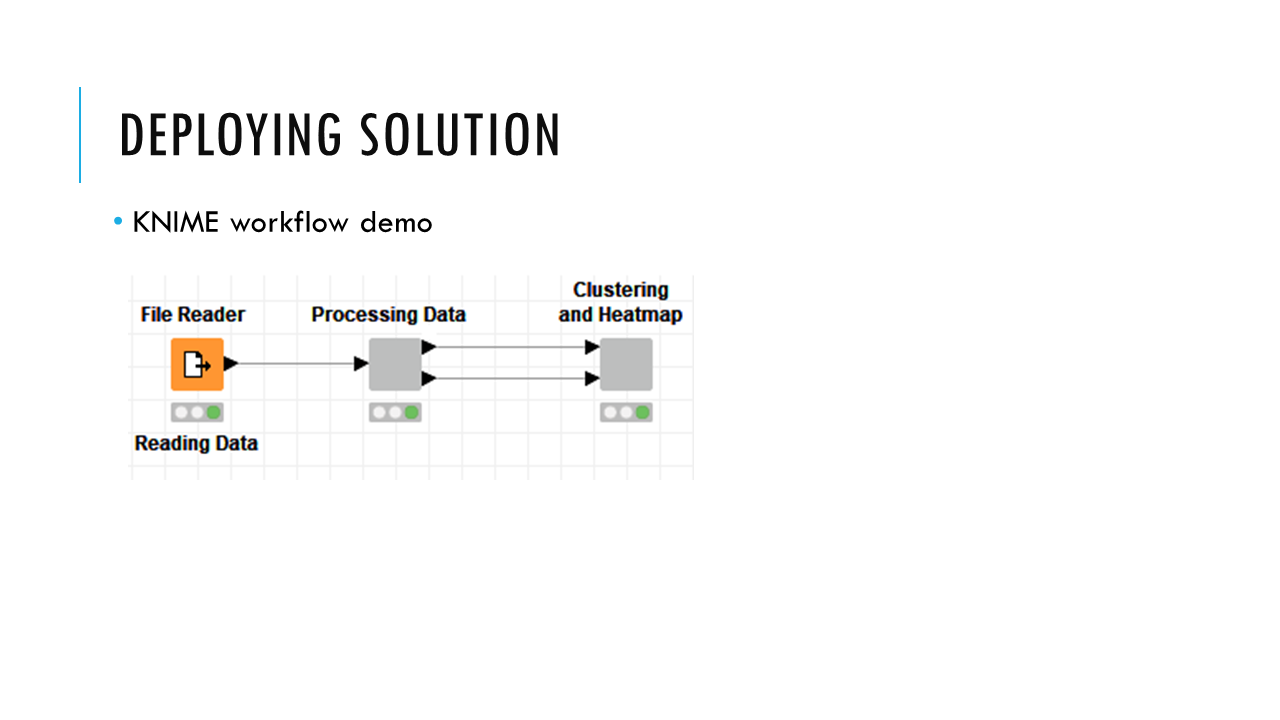
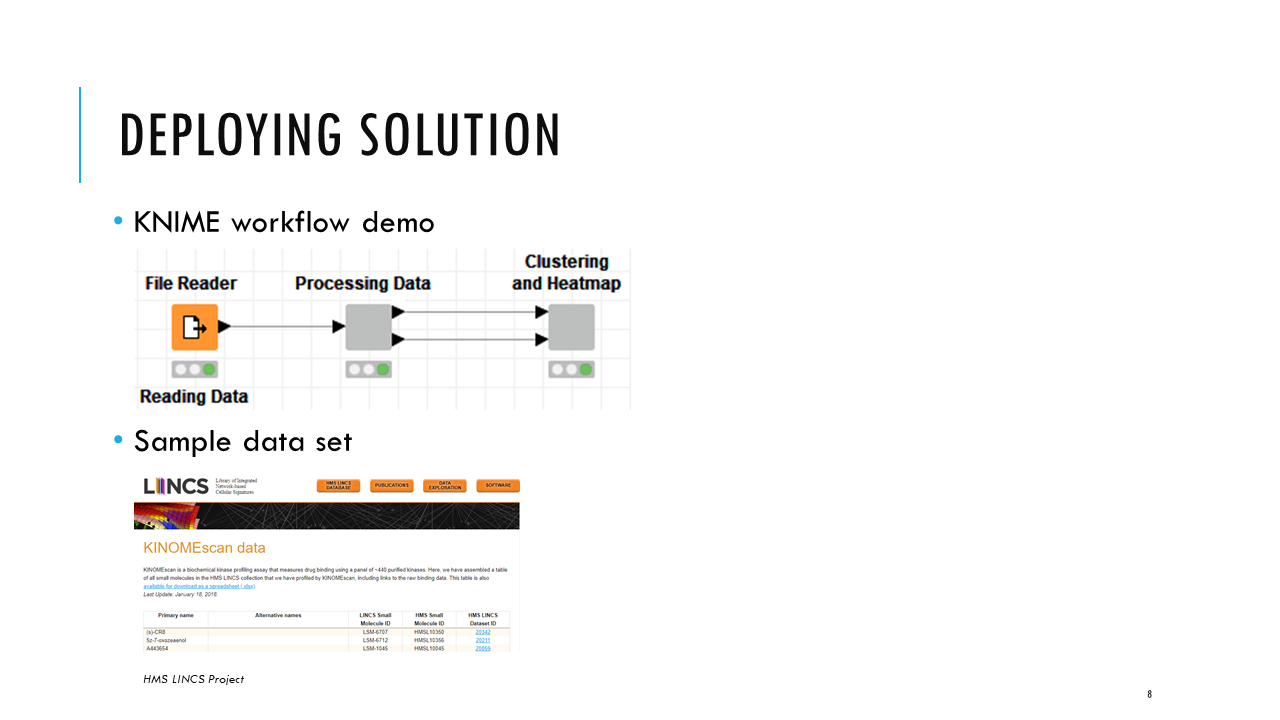
Added files

diff --git a/README.md b/README.md
@@ -31,9 +31,21 @@ KNIME is an open-source data analytics platform that allows users to drag and dr
 2. User-friendly and intuitive interface
 	- Users can upload any data and customize analysis through a web interface and visualization is output in an interactive manner that is easy to get insights from
 
-**Workflow can be downloaded from ./solution/viz_hts (the entire viz_hts folder). KNIME needs to be installed in order to run the workflow**
+*Workflow can be downloaded from ./solution/viz_hts.kwf but KNIME needs to be installed in order to run the workflow. Results are summarized in the images below*
 
 ![Deploy](./images/deploy.png)
+
+![Output](./images/output1.png)
+
+![Output2](./images/output2.png)
+
+![Output3](./images/output3.png)
+
+In the dendrogram, compounds are divided into 6 clusters and assays are divided into 4 clusters. Compounds and assays in the heatmap follow the order of the dendrogram, and the cluster number is assigned after the underscore. In the heatmap, values above 35 are indicated white because compounds do not strongly inhibit kinase function, and are termed inactive. Color ranges from black to light grey, the darker the color, the stronger the compound inhibits kinase function, and are termed more active. Compounds that are active against few kinases are considered more selective (e.g., ZG-10 & QL-XI-92), while those that are active against a lot of kinases (e.g., KIN001-220) are considered less selective. The goal is to identify compounds that are more selective so that we can better design drugs that target specific kinases.
+
+The assignment of clusters do not affect the ordering of the heatmap. The number of clusters selected show the level of separation in the data. If we separate the data into more clusters, we can further see the minute differences among clusters. On the other hand, if we separate the data into fewer clusters, we see higher-level differences. For example, if we separate the compounds into 2 cluster, at the division of KIN001-220, we see 2 distinct activity profiles. Compounds above KIN001-220 (say cluster 1) are more selective while compounds below KIN001-220 (including KIN001-220) (say cluster 2) are less selective. Within each cluster, there are subclusters that show further difference in activity profile. Cluster 1 can be subdivided into 3 clusters where TAK-715 & Barasertib belong to one cluster, CG-930 another cluster, and QL-XI-92 a separate cluster, as they inhibit different kinases.
+
+The tile view shows the raw data and structure of compounds. In the actual implementation, everything is interactive; selection in one view will be reflected in the other view, which is useful to hone in on specific compounds for larger data sets. After we have identified potential leads based on the heatmap, we can move to the tile view to see if there is any correlation betwee the structure of these compounds and their activity to determine if there is a specific chemical group that could result in the effect we want to observe.
 
 # Improving Solution
 
@@ -41,11 +53,21 @@ KNIME is an open-source data analytics platform that allows users to drag and dr
 
 # Future Work
 
+Future work will involve analyzing the structure and activity of compounds to further understand how structure relate to activity so that we can better design drugs that result in the effect we want to see. The goal is to identify small structural changes that result in the greatest change in activity according to the analysis described below.
+
 ![Future](./images/future.png)
+
+After understanding more about the structure and how it relates to activity, we can transition from descriptive to predictive analytics where we predict the activity of new structures. Once we see the desired activity in the new structures, we can then synthesize drugs. This could significantly reduce time and cost in drug development as we design drugs with the notion that they will result in the activity we desire based on data-driven analysis, as opposed to experimenting with a variety of structures and seeing how the activity correlate.
+
+Process of creating a predictive model is shown below:
 
 ![Future2](./images/future2.png)
 
+We can combine our current and future work to design a workflow as shown below:
+
 ![Future3](./images/future3.png)
+
+The goal is to predict the activity of new compounds and specifically develop drugs that have the targeted activity to reduce cost and time associated with drug development.
 
 # Conclusion
 
